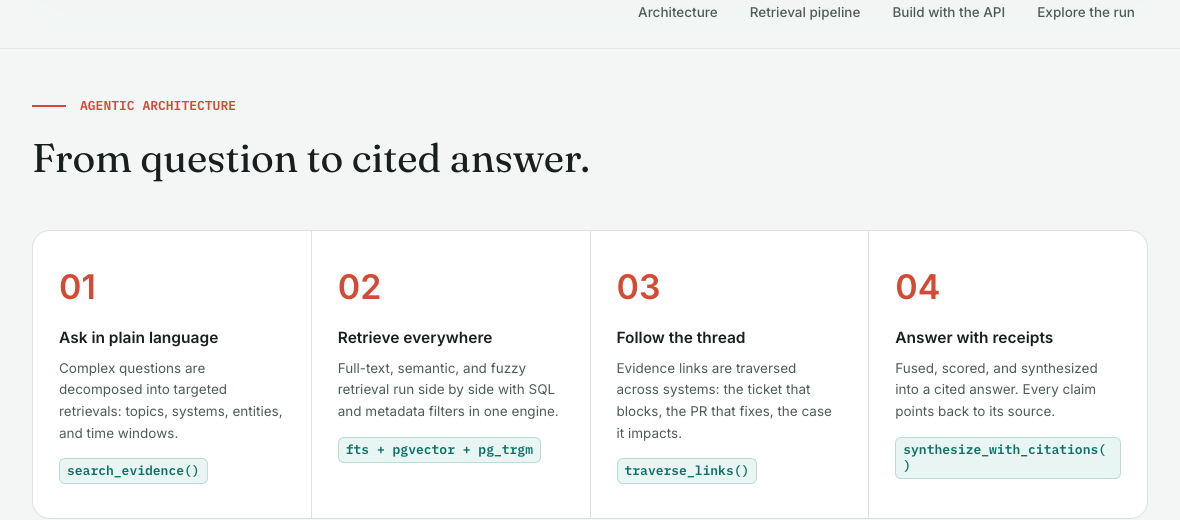
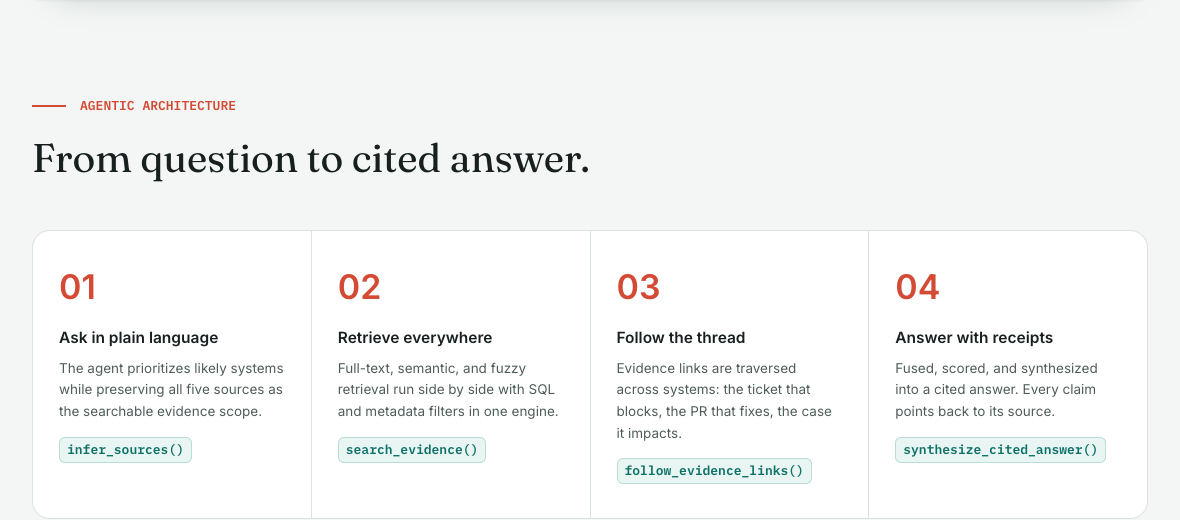
Align participant-visible tool names

diff --git a/frontend/src/main.tsx b/frontend/src/main.tsx
@@ -1480,10 +1480,10 @@ function Landing({
           </div>
           <div className="steps">
             {[
-              ['01', 'Ask in plain language', 'Complex questions are decomposed into targeted retrievals: topics, systems, entities, and time windows.', 'search_evidence()'],
-              ['02', 'Retrieve everywhere', 'Full-text, semantic, and fuzzy retrieval run side by side with SQL and metadata filters in one engine.', 'fts + pgvector + pg_trgm'],
-              ['03', 'Follow the thread', 'Evidence links are traversed across systems: the ticket that blocks, the PR that fixes, the case it impacts.', 'traverse_links()'],
-              ['04', 'Answer with receipts', 'Fused, scored, and synthesized into a cited answer. Every claim points back to its source.', 'synthesize_with_citations()']
+              ['01', 'Ask in plain language', 'The agent prioritizes likely systems while preserving all five sources as the searchable evidence scope.', 'infer_sources()'],
+              ['02', 'Retrieve everywhere', 'Full-text, semantic, and fuzzy retrieval run side by side with SQL and metadata filters in one engine.', 'search_evidence()'],
+              ['03', 'Follow the thread', 'Evidence links are traversed across systems: the ticket that blocks, the PR that fixes, the case it impacts.', 'follow_evidence_links()'],
+              ['04', 'Answer with receipts', 'Fused, scored, and synthesized into a cited answer. Every claim points back to its source.', 'synthesize_cited_answer()']
             ].map(([num, title, body, fn]) => (
               <article className="step" key={num}>
                 <div className="num">{num}</div>
@@ -2999,7 +2999,7 @@ function AgentPage({
                     <div><span>Agreement</span><b>{citedSystemCount} systems support the same timeline</b></div>
                   </div>
                   {canonical?.funnel && (
-                    <p className="covnote"><b>✓ No contradictions</b> found by compare_sources across the {citedSourceCount} cited objects. {Math.max(0, (canonical.funnel.above_cut ?? 0) - (canonical.funnel.cited ?? 0))} candidate{Math.max(0, (canonical.funnel.above_cut ?? 0) - (canonical.funnel.cited ?? 0)) === 1 ? '' : 's'} excluded below the {canonical.rerank_cut} score cut.</p>
+                    <p className="covnote"><b>✓ No contradictions</b> found across the {citedSourceCount} cited objects. {Math.max(0, (canonical.funnel.above_cut ?? 0) - (canonical.funnel.cited ?? 0))} candidate{Math.max(0, (canonical.funnel.above_cut ?? 0) - (canonical.funnel.cited ?? 0)) === 1 ? '' : 's'} excluded below the {canonical.rerank_cut} score cut.</p>
                   )}
                 </section>
               )}

diff --git a/mockups/latest-static-prototype.html b/mockups/latest-static-prototype.html
@@ -594,11 +594,11 @@ sup.c:hover{text-decoration:underline}
       <div class="box">
         <h4>How this answer was assembled</h4>
         <div class="trace">
-          <div class="step"><span class="n">1</span><div><div class="fn">decompose_question()</div><div class="out">3 sub-questions: cause &middot; impact &middot; evidence</div></div></div>
+          <div class="step"><span class="n">1</span><div><div class="fn">infer_sources()</div><div class="out">5 systems prioritized without dropping evidence</div></div></div>
           <div class="step"><span class="n">2</span><div><div class="fn">search_evidence("replica lag cutover", project=orion)</div><div class="out">128 candidates &middot; hybrid + RRF</div></div></div>
-          <div class="step"><span class="n">3</span><div><div class="fn">traverse_links(ORION-1473, depth=1)</div><div class="out">8 linked records across 4 systems</div></div></div>
-          <div class="step"><span class="n">4</span><div><div class="fn">compare_sources(incident, escalation)</div><div class="out">timeline agreement &middot; no conflicts</div></div></div>
-          <div class="step"><span class="n">5</span><div><div class="fn">synthesize_with_citations()</div><div class="out">5 citations &middot; confidence: high</div></div></div>
+          <div class="step"><span class="n">3</span><div><div class="fn">follow_evidence_links(["ORION-1473"], max_depth=1)</div><div class="out">8 linked records across 4 systems</div></div></div>
+          <div class="step"><span class="n">4</span><div><div class="fn">search_evidence("customer commitments", source=salesforce)</div><div class="out">3 candidates &middot; 1 contractual commitment</div></div></div>
+          <div class="step"><span class="n">5</span><div><div class="fn">synthesize_cited_answer()</div><div class="out">5 citations &middot; confidence: high</div></div></div>
         </div>
       </div>
     </aside>

diff --git a/seed/canonical.py b/seed/canonical.py
@@ -285,12 +285,12 @@ ANSWER_SYSTEM_COUNT = 5
 # --- the plan (six tool calls; ops.retrieval_run_metrics.metadata) -------------
 
 PLAN = [
-    {"num": "1", "fn": "search_evidence", "args": "(\"orion delay root cause\", systems: jira+slack+confluence, window: 60d)", "desc": "Question decomposed; lexical + semantic + fuzzy retrieval run in parallel inside Aurora.", "res": "12 strong candidates · top: ORION-1473"},
-    {"num": "2", "fn": "traverse_links", "args": "(from: ORION-1473, edges: blocks · fixes · caused-by · gates)", "desc": "Followed stored object_links across systems to the gate check, the incident, and the fix.", "res": "5 linked objects · 9 edges"},
-    {"num": "3", "fn": "search_evidence", "args": "(\"orion customer commitments go-live\", systems: salesforce)", "desc": "Targeted pass for commitment language scoped to accounts referencing Orion.", "res": "3 candidates · 1 contractual"},
-    {"num": "4", "fn": "compare_sources", "args": "(slack decision ↔ readiness runbook ↔ jira timeline)", "desc": "Checked the decision against gate policy and issue history for contradictions.", "res": "consistent · no conflicts found"},
-    {"num": "5", "fn": "explain_result", "args": "(top 6)", "desc": "Captured per-candidate ranking signals for the diagnostics view.", "res": "signals stored on retrieval_candidates"},
-    {"num": "6", "fn": "synthesize_with_citations", "args": "(6 sources, style: brief)", "desc": "Composed the answer; every claim bound to a citation row in Aurora.", "res": "9 claims · 9 citations · confidence 0.92"},
+    {"num": "1", "fn": "infer_sources", "args": "(\"Why did Orion slip?\")", "desc": "Prioritized likely source systems without dropping any of the five connected evidence domains.", "res": "5 systems · Jira and Slack first"},
+    {"num": "2", "fn": "search_evidence", "args": "(\"orion delay root cause\", systems: jira+slack+confluence, window: 60d)", "desc": "Lexical, semantic, and fuzzy retrieval ran in parallel inside Aurora.", "res": "12 strong candidates · top: ORION-1473"},
+    {"num": "3", "fn": "follow_evidence_links", "args": "([\"ORION-1473\"], max_depth: 3)", "desc": "Followed stored object_links across systems to the gate check, the incident, and the fix.", "res": "5 linked objects · 9 edges"},
+    {"num": "4", "fn": "search_evidence", "args": "(\"orion customer commitments go-live\", systems: salesforce)", "desc": "Ran a targeted pass for commitment language scoped to accounts referencing Orion.", "res": "3 candidates · 1 contractual"},
+    {"num": "5", "fn": "follow_evidence_links", "args": "([\"CASE-0012345\"], max_depth: 2)", "desc": "Connected the customer commitment to the release decision and blocking issue.", "res": "3 linked objects · 2 systems"},
+    {"num": "6", "fn": "synthesize_cited_answer", "args": "(6 sources, style: brief)", "desc": "Composed the answer; every claim bound to a citation row in Aurora.", "res": "9 claims · 9 citations · confidence 0.92"},
 ]
 
 # --- diagnostics metrics (ops.retrieval_run_metrics) ---------------------------
